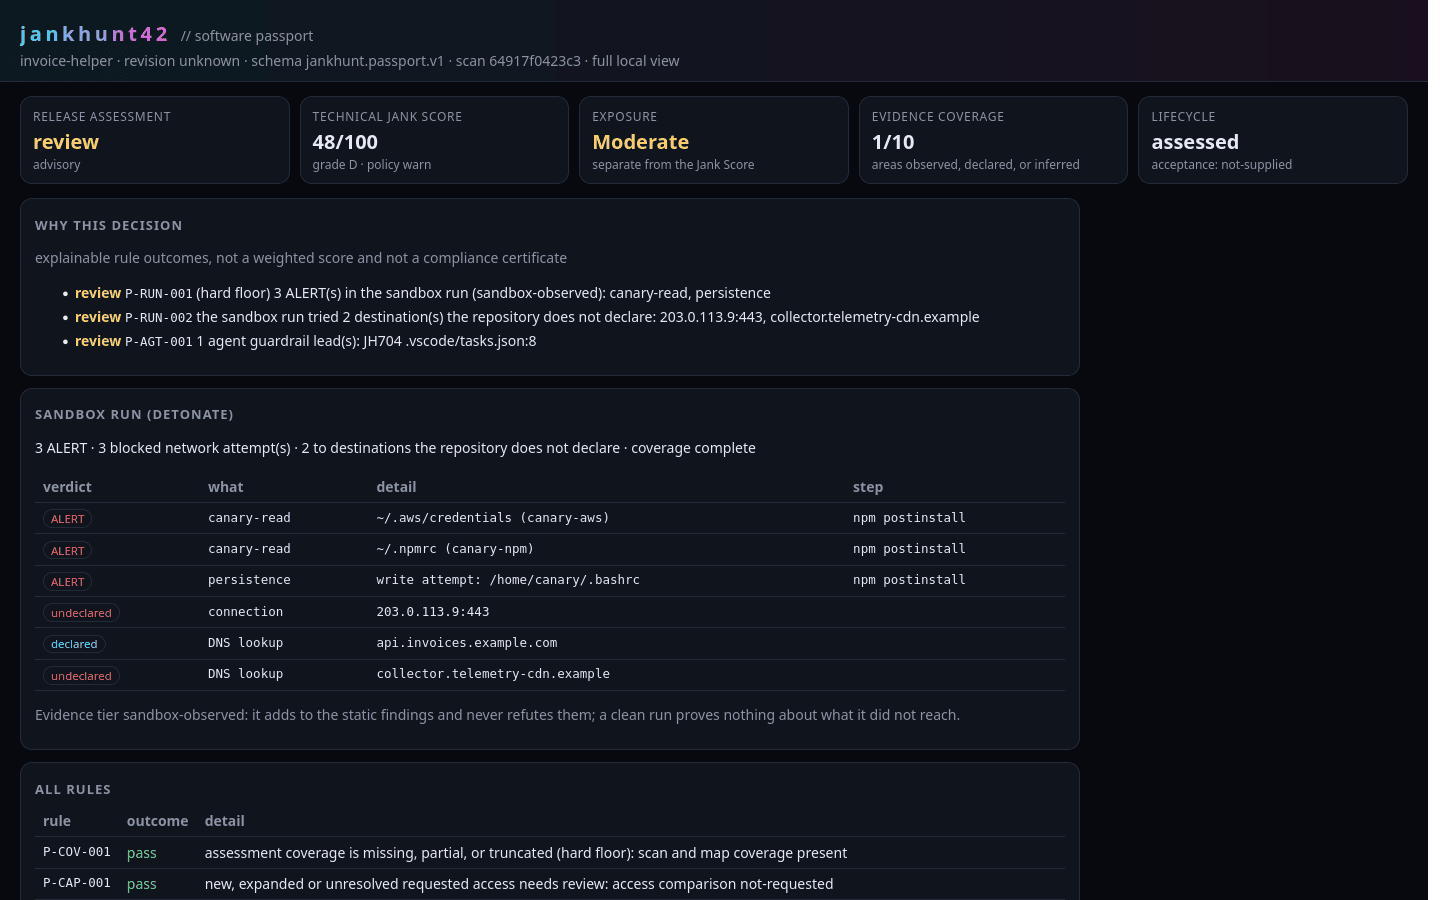
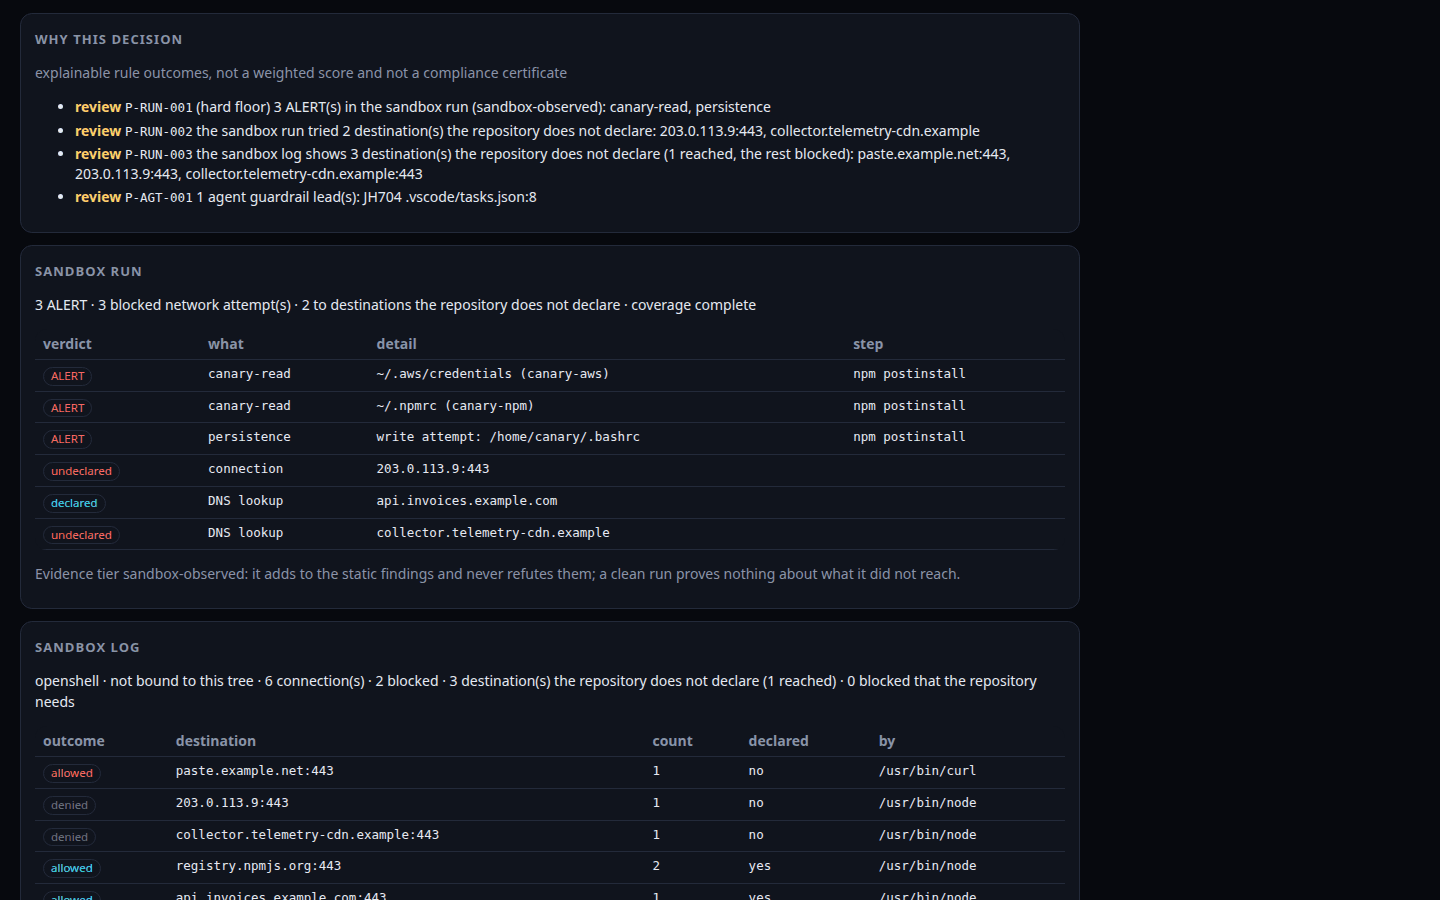
README: refresh the screenshots for 4.15.0
All ten gallery images are re-shot from 4.15.0 at 1440x900. The sandbox pair loses the old
detonate image name and heading, and the HTML passport now shows an agent's sandbox log
(P-RUN-003) beside the sandbox run. The citizen pair (last taken for 2.4.0) shows today's brief,
with a development settings file that points at the production database (P-ENV-001). Captions
and alt text describe what the images show.

Claude-Session: https://claude.ai/code/session_01PFfvL5fZAWo4y5qNxUfpXz

Changed region(s): [[0.0, 0.0311, 0.75, 1.0], [0.9688, 0.0, 1.0, 1.0], [0.7812, 0.1244, 0.9062, 0.1867]]

diff --git a/README.md b/README.md
@@ -127,18 +127,18 @@ Real output from the synthetic fixture `tests/fixtures/demo-app`, a fictional pa
     <td><img src="assets/readme/software-passport.png" alt="HTML passport: summary cards for review, 69 out of 100, High, 4 of 10 and assessed, the three review reasons, and the table of every rule with its outcome"></td>
   </tr>
   <tr>
-    <td colspan="2"><b>Software built by citizen developers.</b> <code>jankhunt42 passport . --profile citizen</code> leads with a plain-language brief: why it blocks, what the software and its AI agent's tool servers can reach, and who must sign off.</td>
+    <td colspan="2"><b>Software built by citizen developers.</b> <code>jankhunt42 passport . --profile citizen</code> leads with a plain-language brief: why it blocks (here, among other things, development settings that point at the production database), what the software and its AI agent's tool servers can reach, and who must sign off.</td>
   </tr>
   <tr>
-    <td><img src="assets/readme/terminal-citizen.png" alt="Terminal citizen passport: release assessment BLOCK, Jank Score 80 out of 100, exposure High, and an in-plain-terms box listing eight blocking reasons, what the software can reach, the AI service it uses, and an unpinned database tool server reaching a production host"></td>
-    <td><img src="assets/readme/citizen-passport.png" alt="HTML citizen passport: release assessment block under the citizen profile with no custodian named, exposure High, and the plain-language brief with the blocking reasons and what the software and its agent set-up can reach"></td>
+    <td><img src="assets/readme/terminal-citizen.png" alt="Terminal citizen passport: release assessment BLOCK, Jank Score 69 out of 100, exposure High, and an in-plain-terms box listing nine blocking reasons, among them development settings that point at a live production system, then the most serious problem found and what the software can reach"></td>
+    <td><img src="assets/readme/citizen-passport.png" alt="HTML citizen passport: release assessment block under the citizen profile with no custodian named, exposure High, and the plain-language brief with nine blocking reasons, the most serious problem found, what the software can reach and the AI service it uses"></td>
   </tr>
   <tr>
-    <td colspan="2"><b>Run it in a sandbox (opt-in).</b> <code>jankhunt42 sandbox .</code> runs the install hooks and what runs when the folder is opened, in a disposable container with the network off and canary credentials, and reads like a firewall log. <code>passport --sandbox-run</code> sets what it tried against what the code declares.</td>
+    <td colspan="2"><b>Run it in a sandbox (opt-in).</b> <code>jankhunt42 sandbox .</code> runs the install hooks and what runs when the folder is opened, in a disposable container with the network off and canary credentials, and reads like a firewall log. <code>passport --sandbox-run</code> sets what it tried against what the code declares, and <code>passport --sandbox-log</code> does the same for an AI agent's own sandbox (OpenShell or Agent Substrate).</td>
   </tr>
   <tr>
-    <td><img src="assets/readme/terminal-sandbox.png" alt="Terminal sandbox run: 3 ALERT and 3 DENY with complete coverage; an npm postinstall and a VS Code folder-open task ran; the audit log shows canary reads of ~/.aws/credentials and ~/.npmrc, a persistence attempt on ~/.bashrc, two DNS lookups and a blocked connection to 203.0.113.9:443."></td>
-    <td><img src="assets/readme/sandbox-passport.png" alt="HTML passport with the sandbox run: review on P-RUN-001 for 3 ALERTs and P-RUN-002 for 2 destinations the repository does not declare; a table marks api.invoices.example.com declared, and collector.telemetry-cdn.example and 203.0.113.9:443 undeclared."></td>
+    <td><img src="assets/readme/terminal-sandbox.png" alt="Terminal sandbox run: 3 ALERT and 3 DENY with complete coverage of the install, import and open surfaces; an npm postinstall and a VS Code folder-open task ran; the audit log shows canary reads of ~/.aws/credentials and ~/.npmrc, a persistence attempt on ~/.bashrc, two DNS lookups and a blocked connection to 203.0.113.9:443."></td>
+    <td><img src="assets/readme/sandbox-passport.png" alt="HTML passport with the sandbox run and an agent's sandbox log: review on P-RUN-001 for 3 ALERTs, P-RUN-002 for 2 undeclared destinations and P-RUN-003 for 3 destinations in the agent's OpenShell log that the repository does not declare; the run table marks api.invoices.example.com declared, and the log table shows paste.example.net reached and undeclared, two blocked attempts, and the npm registry declared."></td>
   </tr>
 </table>
 
